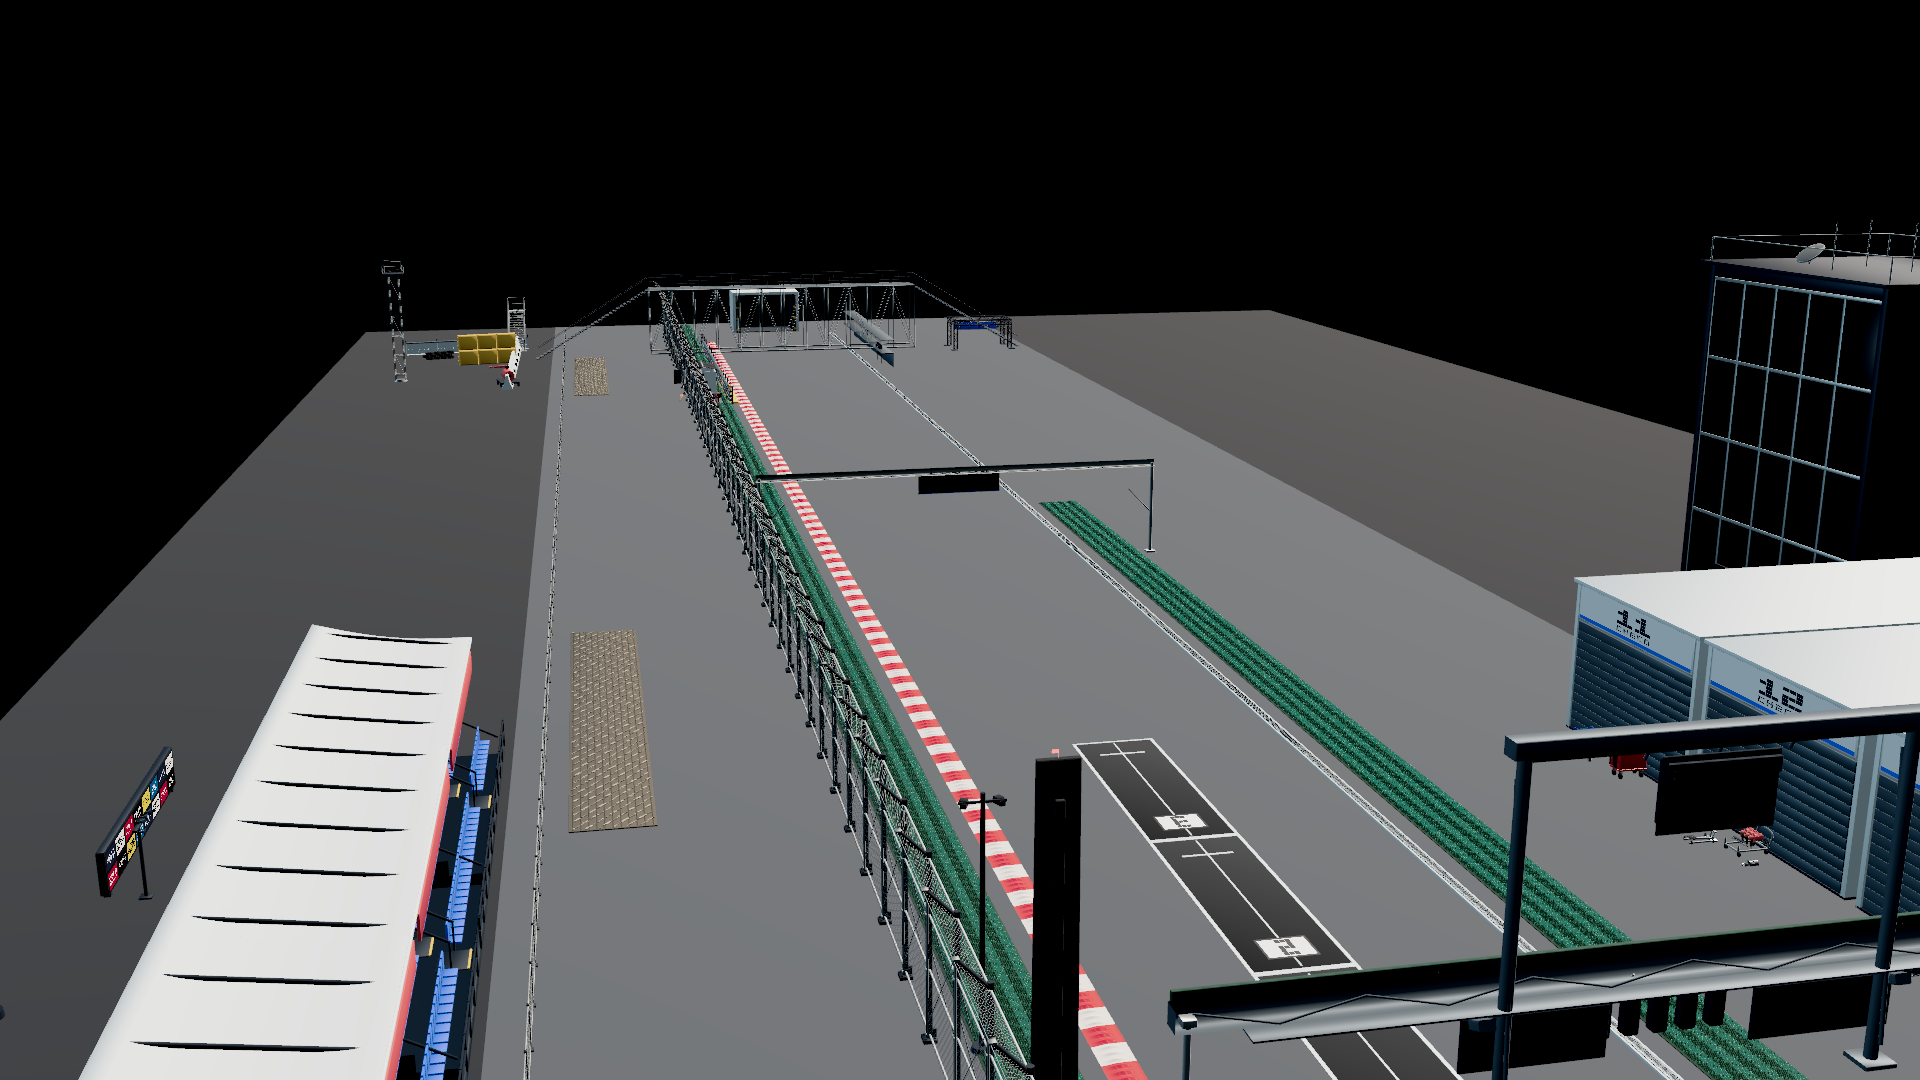
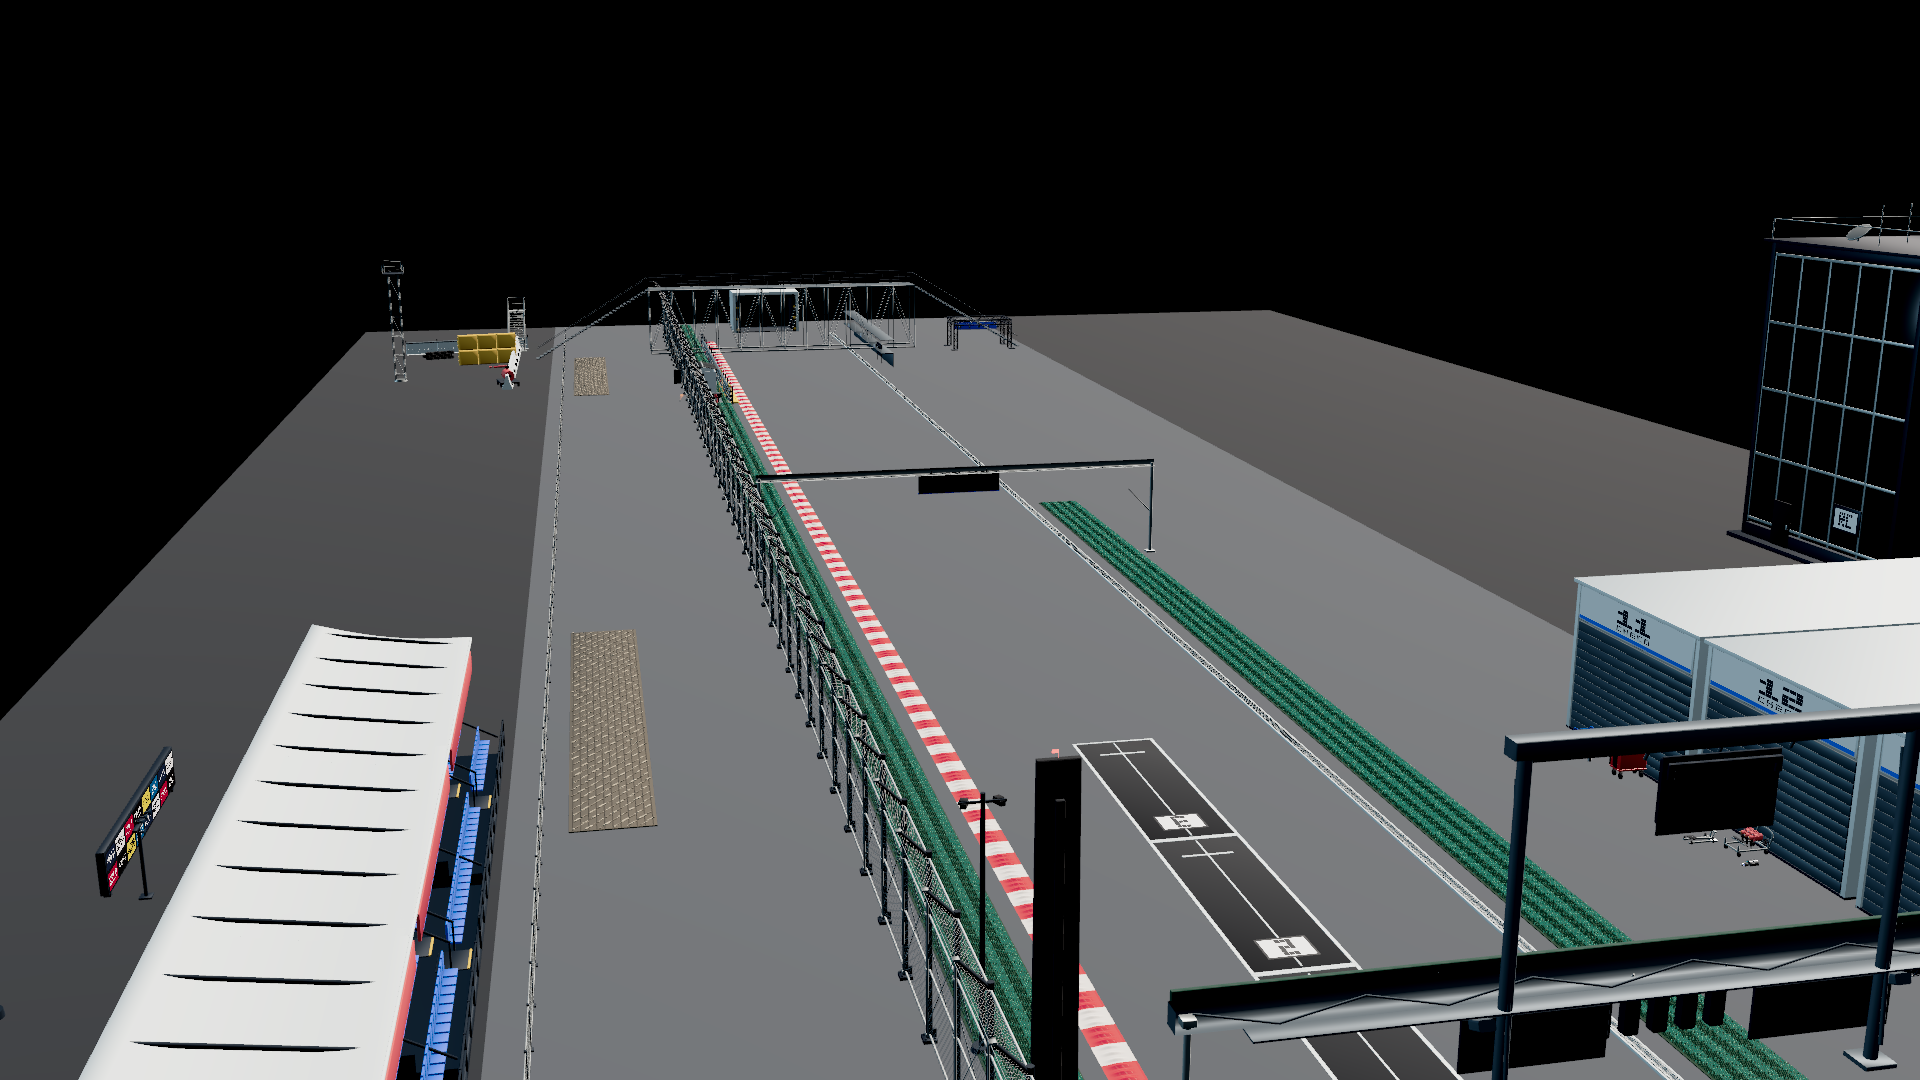
feat(f1-kit): slide race control off the garage wall
The glazed tower was overlapping the garage box. Nudge it into the
paddock so the bays read on their own.

Changed region(s): [[0.875, 0.1833, 1.0, 0.55]]

diff --git a/assets/f1-prototypes/f1-kit-scene/kit-scene.ts b/assets/f1-prototypes/f1-kit-scene/kit-scene.ts
@@ -264,7 +264,7 @@ export function createScene(): F1KitScene {
   add(createTunnelPortal(), 0, END_Z + 16, Math.PI)
 
   // Paddock (behind the garage). Cab toward −Z so the still sees cab+box as one artic.
-  add(createRaceControl(), GARAGE_X - 8, 18, FACE_PIT)
+  add(createRaceControl(), GARAGE_X - 18, 28, FACE_PIT)
   const truck = createServiceTruck({ kind: 'box', lamps: true, wheelRpm: 0 })
   truck.setGround(ground)
   add(truck, GARAGE_X - 12, -22, FACE_PIT)
